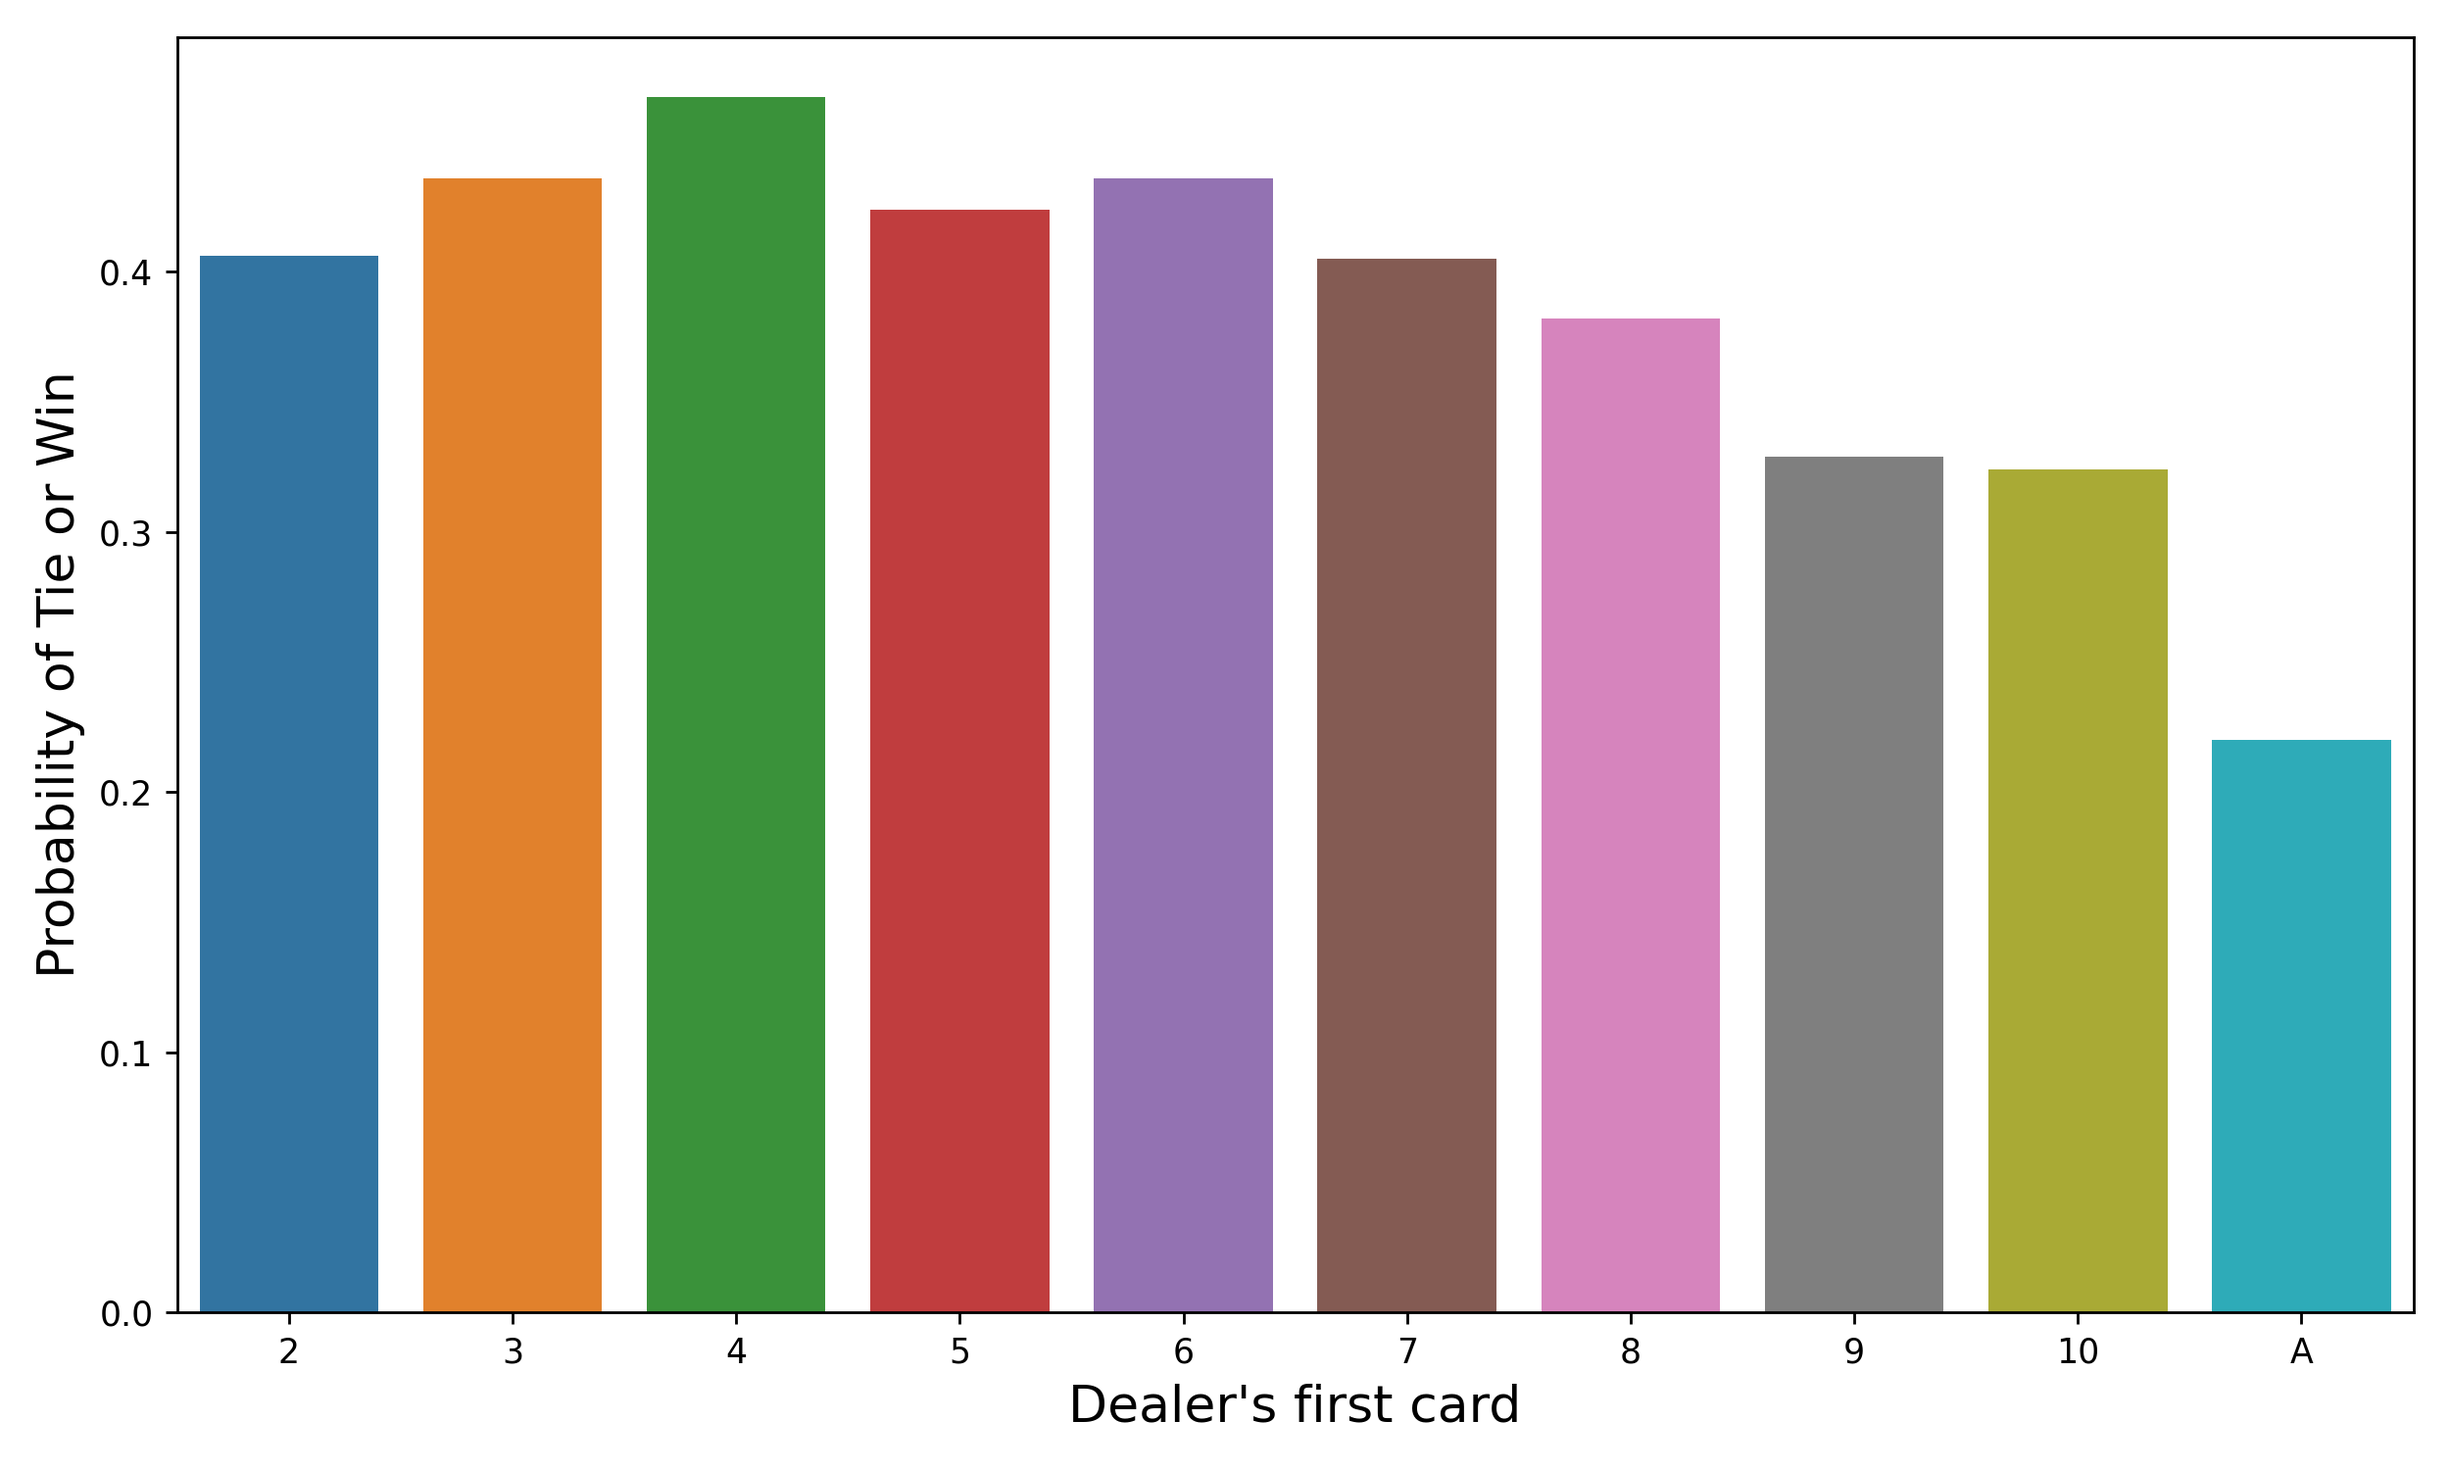
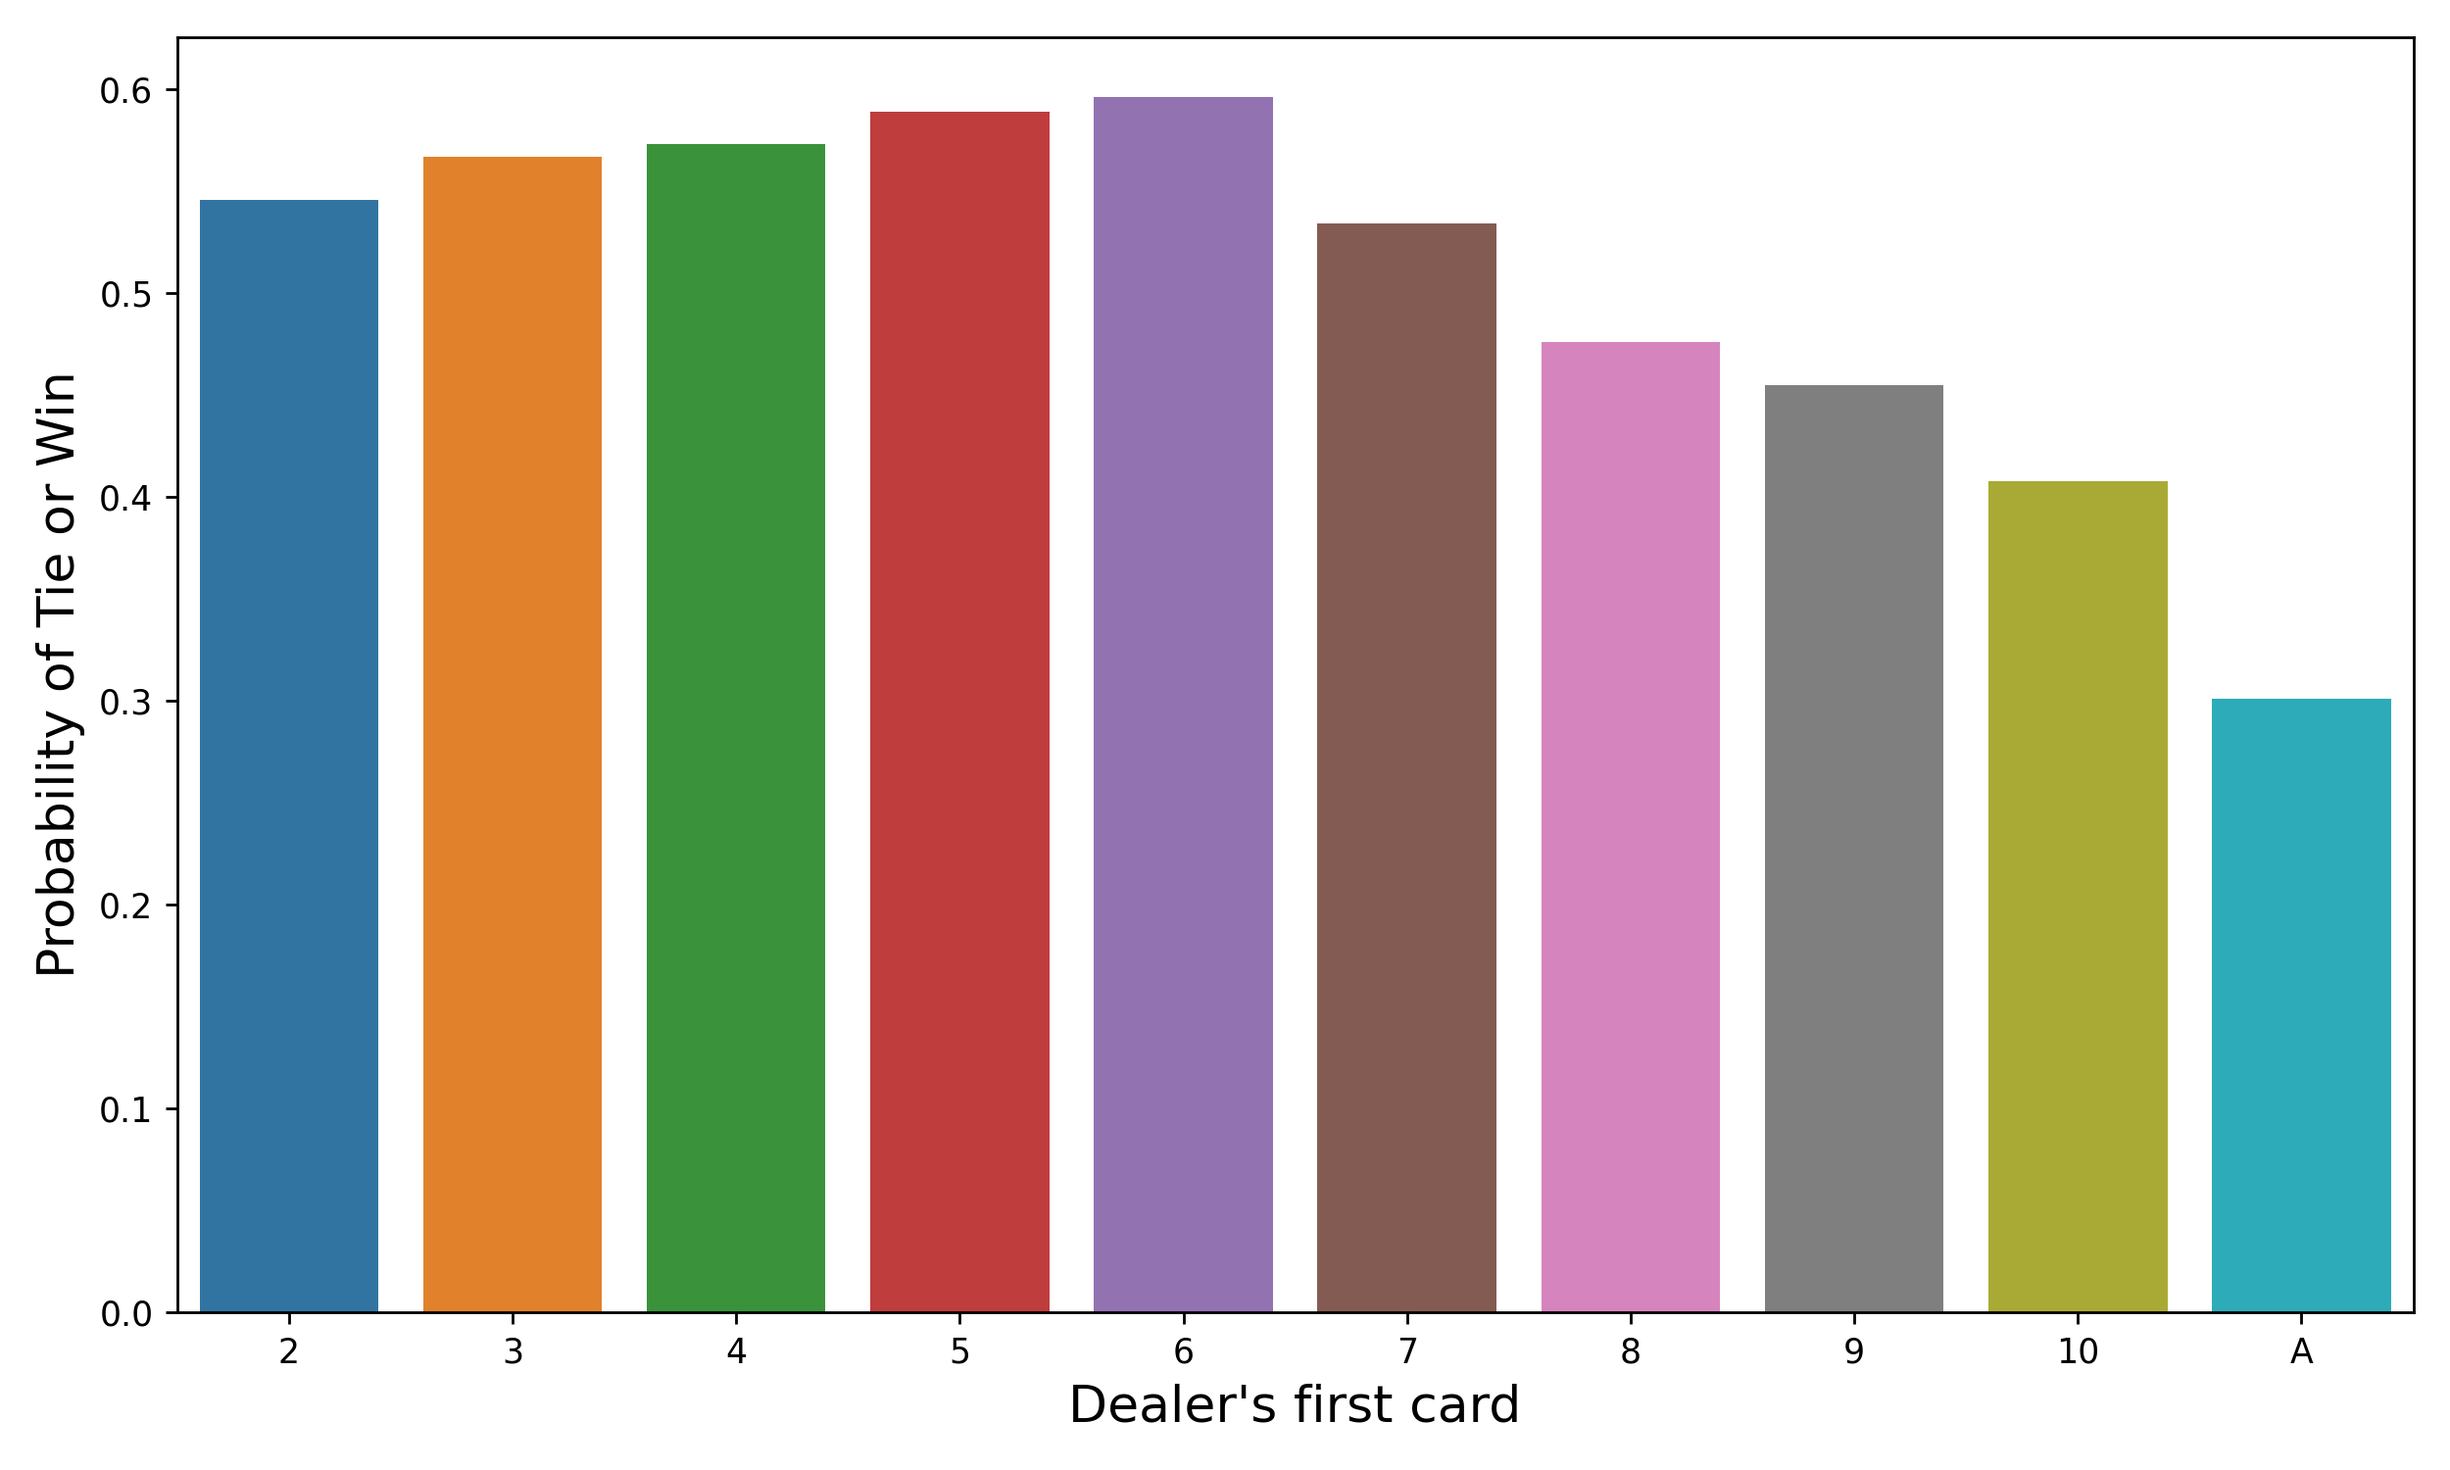
new smarter simulation written

diff --git a/Simulation.py b/Simulation.py
@@ -62,12 +62,14 @@ class Simulation:
                         
                         else:
                             """
-                            Now, the player has the choice to either hit or stay, if we suppose that
+                            OLD: Now, the player has the choice to either hit or stay, if we suppose that
                             the probability for hitting is the same as for staying, we can at each turn 
                             generate a random value between 0 and 1, if this value is higher than 0.5, 
                             the player hits, else we stay (do nothing). We additionally check for busts.
+                            NEW: As a random hit leads to the same chance of hitting when the player has 20
+                            than standing so a new method has to be written.
                             """
-                            while ((random.random() >= 0.5) and \
+                            while ((self.game.total_up(self.players_hands[player]) <= 11) and  
                                 (self.game.total_up(self.players_hands[player]) != 21)):
                                 self.players_hands[player].append(self.cards.pop(0))
                                 
@@ -252,19 +254,19 @@ class Simulation:
         # ax.set_xlabel("Player's Hand Value",fontsize=16)
         # ax.set_ylabel("Dealer's Card",fontsize=16)
 
-        # plt.savefig(fname='heat_map_random', dpi=150)
+        # plt.savefig(fname=f'{save_to}/heat_map_random', dpi=150)
+        pass
 
 
 
 
 
-
-simulation = Simulation(1000)
+simulation = Simulation(10000)
 simulation.simulation()
 simulation.evaluate()
 simulation.modelisation()
-# simulation.first_dealer_card_impact(simulation.model_df, "Dealer's first card", "Probability of Tie or Win")
-# simulation.player_value_impact(simulation.model_df, "Player's hand value", "Probability of a tie or win")
+simulation.first_dealer_card_impact(simulation.model_df, "Dealer's first card", "Probability of Tie or Win")
+simulation.player_value_impact(simulation.model_df, "Player's hand value", "Probability of a tie or win")
 # print(simulation.has_ace())
 print(simulation.model_df)
 
